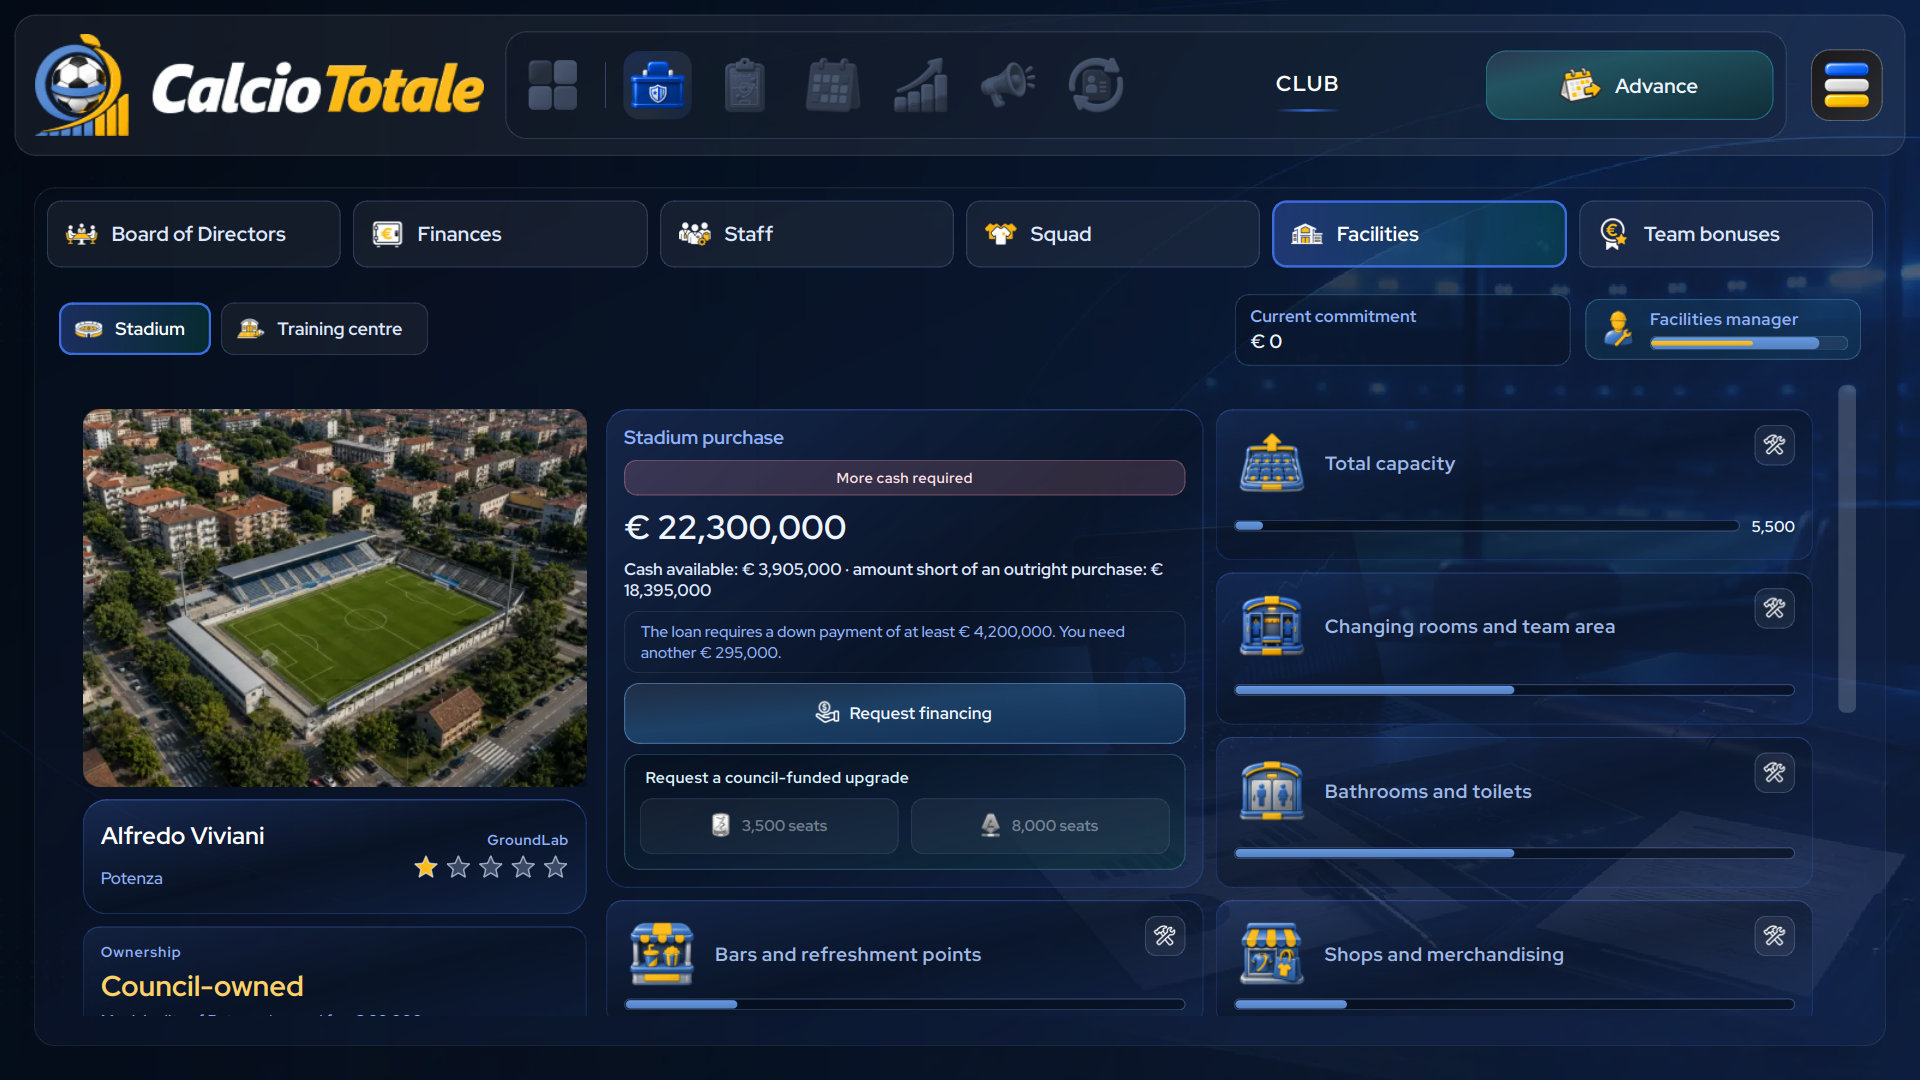
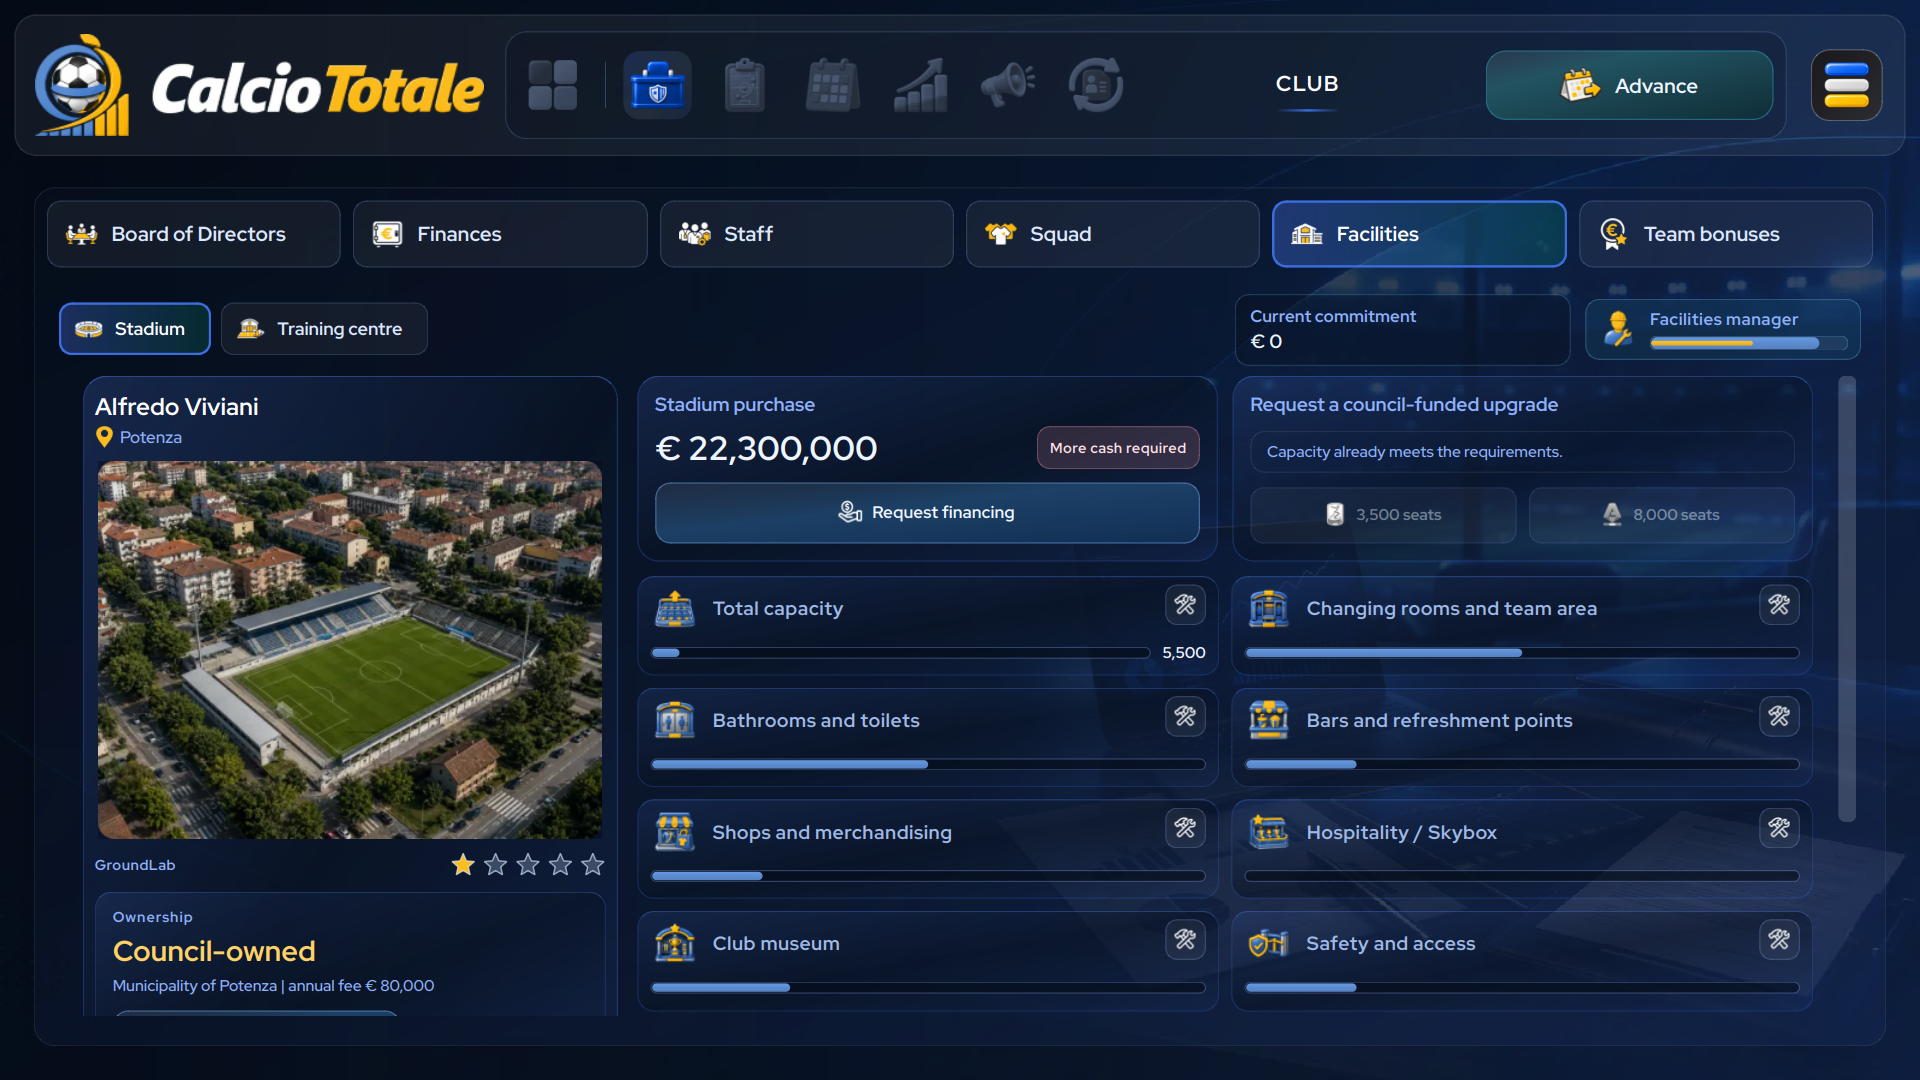
Update stadium facilities screenshots and rent renegotiation overview

Changed region(s): [[0.0312, 0.3361, 0.9688, 0.9472], [0.9062, 0.5194, 0.9375, 0.5806], [0.9062, 0.3972, 0.9375, 0.4278]]

diff --git a/README.es.md b/README.es.md
@@ -43,7 +43,7 @@ Está desarrollado en Python y PySide6. La versión **1.0.3** se está preparand
 - **Fútbol nacional** — ligas, Coppa Italia, Coppa Italia Serie C, Supercoppa Italiana, play-offs y play-outs de Serie B y fase posterior a la liga de Serie C.
 - **Competiciones internacionales** — UEFA Champions League, Europa League, Conference League, Supercopa de la UEFA, Copa Intercontinental y Mundial de Clubes, con eliminatorias de clasificación, sorteos, fases de liga y continuidad entre temporadas.
 - **Gestión de la plantilla y los partidos** — sistemas de juego, alineaciones, tácticas, dorsales, roles, preparación de encuentros, entrenamiento semanal, lesiones, enfermedades, sanciones y crónicas de los partidos.
-- **Gestión del club** — objetivos e informes de la directiva, flujos de caja, cuenta de resultados, contabilidad de traspasos, contratos, primas, crédito, ampliaciones de capital, personal, estadio y desarrollo del centro de entrenamiento.
+- **Gestión del club** — objetivos e informes de la directiva, flujos de caja, cuenta de resultados, contabilidad de traspasos, contratos, primas, crédito, ampliaciones de capital, personal, estadio y desarrollo del centro de entrenamiento, con renegociación del canon con el propietario del estadio.
 - **Fichajes y ojeo** — incorporaciones, ventas, cesiones, negociaciones, precontratos, listas de transferibles y cedibles, seguimiento de futbolistas y búsqueda de jóvenes promesas.
 - **Gestión comercial** — venta de entradas y abonos, patrocinadores, derechos televisivos, prensa y comunicados oficiales, redes sociales y productos del club.
 - **Cantera y desarrollo** — jóvenes de la cantera, ascenso al primer equipo, evolución técnica, personalidad y seguimiento individual.

diff --git a/README.it.md b/README.it.md
@@ -43,7 +43,7 @@
 - **Calcio nazionale** — campionati, Coppa Italia, Coppa Italia Serie C, Supercoppa Italiana, play-off e play-out di Serie B e fase post-campionato di Serie C.
 - **Competizioni internazionali** — UEFA Champions League, Europa League, Conference League, Supercoppa UEFA, Coppa Intercontinentale e Mondiale per Club, con play-off di qualificazione, sorteggi, fasi campionato e progressione tra le stagioni.
 - **Gestione della squadra e delle partite** — moduli, formazioni, tattiche, numeri di maglia, ruoli, preparazione della gara, allenamento settimanale, infortuni, malattie, squalifiche e cronache delle partite.
-- **Gestione societaria** — obiettivi e relazioni della dirigenza, flussi di cassa, conto economico, contabilità dei cartellini, contratti, premi, credito, ricapitalizzazioni, staff, stadio e sviluppo del centro di allenamento.
+- **Gestione societaria** — obiettivi e relazioni della dirigenza, flussi di cassa, conto economico, contabilità dei cartellini, contratti, premi, credito, ricapitalizzazioni, staff, stadio e sviluppo del centro di allenamento, con rinegoziazione del canone con l’ente proprietario.
 - **Calciomercato e osservazione** — acquisti, cessioni, prestiti, trattative, precontratti, liste in uscita, giocatori osservati e ricerca di giovani talenti.
 - **Gestione commerciale** — biglietteria e abbonamenti, sponsor, diritti televisivi, stampa e comunicazione ufficiale, canali social e merchandising.
 - **Settore giovanile e crescita** — giovani del vivaio, percorsi di promozione, sviluppo tecnico, personalità e gestione individuale.

diff --git a/README.md b/README.md
@@ -43,7 +43,7 @@ It is built with Python and PySide6; version **1.0.3** is being prepared for rel
 - **Domestic football** — league seasons, Coppa Italia, Coppa Italia Serie C, Supercoppa Italiana, Serie B play-offs/play-outs and Serie C post-season.
 - **International competitions** — UEFA Champions League, Europa League, Conference League, UEFA Super Cup, Intercontinental Cup and Club World Cup, with qualifying play-offs, draws, league phases and season-to-season progression.
 - **Squad and match management** — formations, line-ups, tactics, shirt numbers, player roles, match preparation, weekly training, injuries, illnesses, suspensions and match reports.
-- **Club management** — board objectives and reports, cash flows, income statement, player-registration accounting, contracts, team bonuses, credit, recapitalisation, staff, stadium and training-centre development.
+- **Club management** — board objectives and reports, cash flows, income statement, player-registration accounting, contracts, team bonuses, credit, recapitalisation, staff, stadium and training-centre development, and stadium-rent renegotiation with the owner.
 - **Transfers and scouting** — signings, sales, loans, negotiations, pre-contracts, transfer and loan lists, watched players and youth recruitment.
 - **Commercial management** — ticketing and season tickets, sponsors, TV rights, press and official communication, social channels and merchandising.
 - **Youth and development** — academy prospects, promotion paths, technical growth, personalities and individual treatment.
